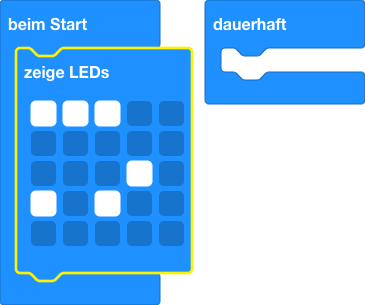
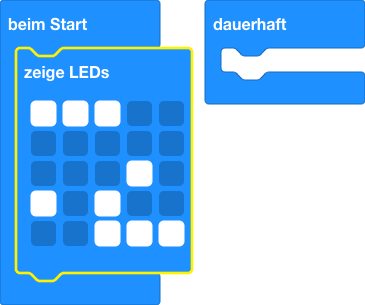
Aktualisiere main.blocks, main.ts

Changed region(s): [[0.2411, 0.7082, 0.5123, 0.8262]]

diff --git a/main.ts b/main.ts
@@ -3,7 +3,7 @@ basic.showLeds(`
     . . . . .
     . . . # .
     # . # . .
-    . . . . .
+    . . # # #
     `)
 basic.forever(function () {
 	
